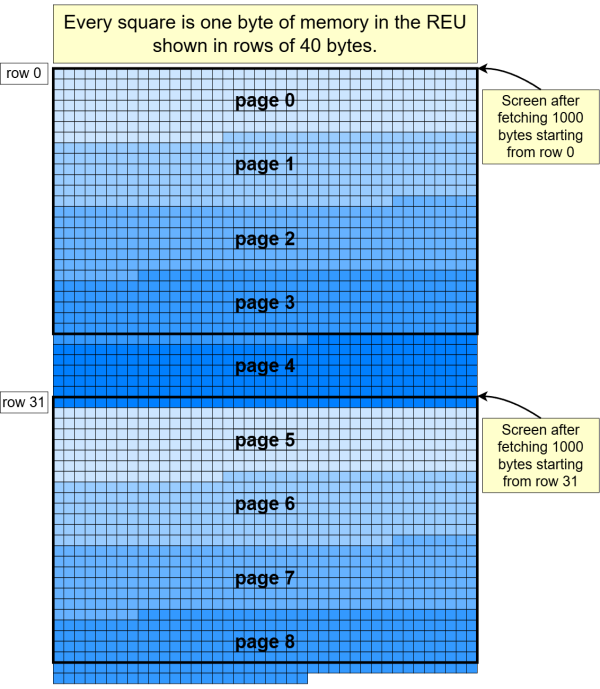
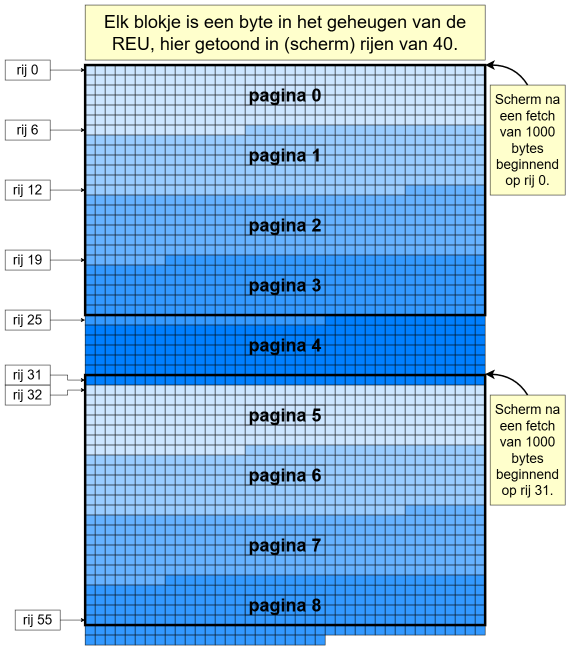
REU: added BASIC

diff --git a/reu/reu-nl.md b/reu/reu-nl.md
@@ -70,10 +70,11 @@ We slaan `command` even over en springen naar registers `c64base`, `reubase`,
 en `translen`. Het register `c64base` is het start adres van de kopieer actie 
 aan de C64 kant, het register `reubase` is het start adres van de kopieer actie 
 aan de REU kant, en `translen` is het aantal te kopiëren bytes. Merk op dat 
-`c64base` (en `translen`) de hele 64 kB van de 6510 omvat, terwijl het REU 
-geheugen maximaal 256 × 64 kB kan zijn.
+`c64base` (en `translen`) beide 2 bytes zijn en dus de hele 64 kB van de 6510 
+omvat, terwijl `reubase` zelfs 3 bytes is, zodat het REU geheugen maximaal 
+256 × 64 kB kan zijn (16777216 bytes of 16 Mbytes).
 
-  | Bits | Function     | Details                                                             |
+  | Bits | Function     | Details `command`                                                   |
   |:----:|:------------:|:--------------------------------------------------------------------|
   |   7  | EXECUTE      | 1 start een kopieer actie (van type TRANSFERTYPE)                   |
   |   6  |              |                                                                     |
@@ -86,11 +87,11 @@ Het `command` register bestuurt de kopieer actie. De onderste twee bits
 `TRANSFERTYPE` bepalen welk van de 4 kopieer acties wordt uitgevoerd. 
 Het `EXECUTE` bit (bit 7: 128) start de actie. Tijdens de kopieer actie zal 
 de REU de registers `c64base`, `reubase` stap voor stap ophogen en `translen` 
-aflagen. Als `LOAD` (bit 5: 32) hoog is zal de REU de start waardes herstellen 
+aflagen. Als `LOAD` (bit 5: 32) hoog is zal de REU de startwaardes herstellen 
 aan het einde van de kopie. De vlag `NOFF00` stelt je in staat de start nog 
 even uit te stellen; die begint pas na een schrijfactie naar $FF00. Dit is 
-nodig in een speciaal geval: als de REU de C64 RAM moet lezen of schrijven,
-die _onder_ het I/O 2 gebied ligt. 
+nodig in één speciaal geval: als de REU het C64 geheugen moet lezen of schrijven,
+dat _onder_ het I/O 2 gebied ligt. 
 
 Het `irqmask` register geeft de mogelijkheid een interrupt te genereren als 
 de kopieer actie klaar is. Zoals bij `status` vermeld _stallt_ de REU de 6510
@@ -109,8 +110,8 @@ voor alle registers.
 ## 10 PRINT met REU 
 
 Nu we weten hoe de REU werkt gaan we hem gebruiken in een BASIC programma.
-We gaan het klassieke 10 PRINT programma nabouwen omdat iedereen het kent 
-en omdat het goed past bij de mogelijheden van de REU.
+We gaan het klassieke 10 PRINT programma nabouwen. 10 PRINT omdat iedereen 
+het kent en omdat het goed past bij de mogelijkheden van de REU.
 
 
 ### 10 PRINT
@@ -123,8 +124,8 @@ Het klassieke 10 PRINT programma bestaat uit één regel:
   
 Het gebruikt de `RND(1)` functie om een willekeurig getal tussen 0 en 1 te 
 genereren. Hierdoor ligt `205.5+RND(1)` tussen 205.5 en 206.5. De `CHR$()` 
-functie kapt het argument af naar 205 of 206, waardoor een `\` of `/` wordt 
-afgedrukt. De GOTO 10 vormt een lus, wat leidt tot het afdrukken van 
+functie kapt het argument af naar 205 of 206, waardoor een `\` of `/` streep 
+wordt afgedrukt. De GOTO 10 vormt een lus, wat leidt tot het afdrukken van 
 oneindig veel schuine strepen, zodat er een doolhof patroon ontstaat.
 
 
@@ -139,37 +140,39 @@ Het idee is dat we veel schuine strepen van het 10 PRINT-programma opslaan
 in het REU-geheugen. We slaan ze op vanaf adres 0 ($000000) in de REU. 
 
 Voor de animatie halen we 1000 bytes op vanaf REU adres 0 en plaatsen deze 
-op C64 adres $0400 (het scherm). Daarna halen we 1000 bytes op uit REU adres 
+op C64 adres $0400 (het scherm). Daarna halen we 1000 bytes op vanaf REU adres 
 40 en plaatsen die opnieuw op $0400. Dit scrolt het scherm één rij omhoog. 
 Vervolgens halen we 1000 bytes op vanaf REU adres 80 en plaatsen die op $0400; 
 weer _scrollt_ het scherm een rij omhoog. En zo verder. 
 
 Dit gaat snel. Het is niet meer nodig om strepen te berekenen en ook de 
-kernel-scroll is niet meer nodig. Elke kopie duurt slechts 1 ms 
-(we hebben nog wel een paar BASIC-commando's nodig om de kopie te starten).
+_kernel-scroll_ routine hoeft niet meer aangeroepen te worden. 
+Elke kopie duurt slechts 1 ms (we hebben nog wel een paar BASIC `POKE` 
+opdrachten nodig om de kopie te starten).
 
 
 ### REU geheugen indeling
 
 Er zijn twee problemen met de hierboven geschetste REU versie van 10 PRINT.
 
-Het eerste probleem is dat elke schuine streep, eerst in de REU moet staan; 
-we moeten deze dus toch berekenen. 
-Om dit op te lossen, spelen we een beetje vals. We genereren slechts 256 
-schuine strepen en slaan meerder kopieën achtereenvolgens op in de REU. 
+Het eerste probleem is dat elke schuine streep, in de REU moet staan; 
+we moeten ze dus toch allemaal berekenen. Om dit op te lossen, spelen we 
+een beetje vals. We genereren slechts 256 schuine strepen en slaan meerder 
+kopieën van dit setje achtereenvolgens op in het REU geheugen. 
 Als je goed kijkt kun je dat zien, maar 256 schuine strepen is 6 scherm 
 rijen (van 40) plus nog 16 tekens. Hierdoor is de tweede reeks van 256 
 schuine strepen met 16 tekens verschoven. Dit maakt het lastiger om het 
 herhalende patroon te zien. Goed genoeg voor onze eenvoudige demo. 
 Vanaf nu noemen we een reeks van 256 schuine strepen één pagina.
 
-Het tweede probleem is dat we, net als in het originele 10 PRINT programma, 
-willen dat onze versie oneindig door loopt. Het is duidelijk dat we geen 
-oneindige hoeveelheid (identieke) pagina's van 256 schuine strepen kunnen hebben.
-Hier schiet de wiskunde ons te hulp. Het kleinste gemene veelvoud van de 
-rijgrootte 40 en de paginagrootte 256 is 1280. We kunnen precies 5 pagina's 
-(van 256 tekens) kwijt in 1280, én we kunnen precies 32 rijen (van 40 tekens) 
-kwijt in 1280. Als de REU gevuld is met voldoende pagina's en we beginnen 
+Het tweede probleem is dat we willen dat de animatie oneindig door loopt, 
+net als in het originele 10 PRINT programma. Het is duidelijk dat we geen 
+oneindige hoeveelheid (identieke) pagina's van 256 schuine strepen in 
+het REU geheugen kunnen hebben. Hier schiet de wiskunde ons te hulp. 
+Het kleinste gemene veelvoud van de rijgrootte 40 en de paginagrootte 256 
+is 1280. We kunnen precies 5 pagina's (van 256 tekens) kwijt in 1280 bytes, 
+én we kunnen precies 32 rijen (van 40 tekens) kwijt in 1280 bytes. 
+Als de REU gevuld is met voldoende pagina's en we beginnen 
 met het ophalen van (1000 bytes vanaf) rij 0 (adres 0), vervolgens 1000 vanaf 
 rij 1 (adres 40), ..., en op een gegeven moment 1000 bytes vanaf rij 32 
 (adres 1280), dan bereiken we een cyclus: de bytes (vanaf) rij 32 zijn gelijk 
@@ -177,14 +180,246 @@ aan die op rij 0. Dus na het ophalen van het scherm vanaf rij 31, halen we het
 volgende scherm niet op vanaf rij 32, maar springen we terug en halen we het 
 scherm weer op vanaf rij 0. Dat is immers identiek aan dat op rij 32.
 
-We moeten ons realiseren dat we een scherm van 1000 bytes ophalen, waarvan 
-de laatste begint op rij 31. Daarom moeten er vanaf rij 31 nog minimaal 1000 
-schuine strepen in de REU staan. Zoals de het geheugen plaatje hieronder 
-laat zien, hebben we 9 pagina's in de REU nodig om genoeg schuine strepen 
-te hebben om helemaal naar rij 31 te scrollen. Wij denken dat dit genoeg 
-variatie biedt voor onze demo.
+Het laatste scherm dat we ophalen begint op rij 31 en is 1000 bytes groot.
+Zoals de het geheugen plaatje hieronder laat zien, hebben we dus 9 pagina's 
+in de REU nodig om genoeg schuine strepen te hebben om helemaal naar rij 31 
+te scrollen. Wij denken dat dit genoeg variatie biedt voor onze demo.
 
-![REU geheugen](memorysmall.png)
+![REU geheugen](memory-nl.png)
+
+
+### Het BASIC programma
+
+We bespreken nu het BASIC programma `10PRINT-WITH-REU`. We gebruiken de
+`petcat` conventie om speciale symbolen als "wissel naar light blauw" 
+af te drukken als `{lblu}`. Ook hakken we bij de bespreking het programma 
+op in blokken, maar alle blokken achter elkaar vormen het uitvoerbare 
+programma.
+
+
+### Kleuren
+
+```basic
+100 r=57088:rem 10print-with-reu
+110 poke 53280,14:poke 53281,6
+120 print "{clr}{lblu}";tab(54);"please wait"
+```
+
+Het eerste blok regelt de kleur. 
+Regel 100 is de uitzondering; deze definieert variabele `R` als het 
+basisadres van de REU en het bevat de naam van het programma.
+
+Zoals uitgelegd gebruiken we het _fetch_ commando van de REU om 1000 (schuine) 
+strepen te kopiëren uit het REU-geheugen naar het schermgeheugen van de C64 
+(op adres $0400 of 1024). Om de strepen zichtbaar te maken, moet ook het 
+_kleurengeheugen_ (op adres$D800 of 55296) worden ingesteld. 
+Welke kleur zullen we gebruiken? De ontwerpkeuze is dat we de C64 standaard 
+kleuren gebruiken.
+
+Regel 110 stelt de rand (53280) in op lichtblauw (kleur 14) en de 
+achtergrond van het scherm (53281) op donkerblauw (kleur 6).
+Tot slot stelt regel 120 de cursor of voorgrond kleur in op lichtblauw 
+({lblu} kleur 14) en drukt `PLEASE  WAIT` af.
+Hiermee zijn alle standaardkleuren ingesteld.
+
+
+### Schuine strepen
+
+```basic
+200 print "{blu}";
+210 print chr$(206);
+220 for i=0 to 254
+230 :print chr$(205.5+rnd(1));
+240 next
+250 print "{lblu}"
+```
+
+het tweede blok drukt de 256 (schuine) strepen af op de bekende 10 PRINT
+manier. We willen echter niet dat de gebruiker ze (nu al) ziet. 
+Daarom schakelt regel 200 de cursor kleur om naar donkerblauw (6, {blu})
+dezelfde als de achtergrond. Regel 250 schakelt weer terug naar lichtblauw 
+(14, {lblu}).
+
+Eén ding is bijzonder: het allereerste teken van de 256 wordt door regel 210 
+geforceerd ingesteld op 206 (`/`). Toevallig is 206 AND 15 gelijk aan 14. 
+We hergebruiken later het eerste teken van de pagina om de REU het 
+kleurengeheugen te laten vullen (via _fill_) met 1000 bytes met de waarde 206 
+(zie regels 500-550 verderop). 
+
+Omdat het kleurengeheugen alleen de onderste 4 bits van 206 opslaat, 
+krijgt het kleurengeheugen 1000 keer de waarde 14, wat lichtblauw is, 
+onze gekozen cursor kleur.
+
+
+### Pagina's _stashen_
+
+```basic
+300 poke r+2,80:poke r+3,4
+310 poke r+4, 0:poke r+5,0:poke r+6,0
+320 poke r+7, 0:poke r+8,1
+330 poke r+9,0
+340 poke r+10,0
+350 for i=0 to 8
+360 :poke r+5,i
+370 :poke r+1,128+32+16+0
+380 next
+```
+
+Dit blok slaat de pagina van 256 bytes aan schuine strepen) 9 keer 
+op in het REU-geheugen.
+
+We configureren de REU via de registers.
+
+- Regel 300 stelt de MSB van `c64base` in op 4 (het schermgeheugen begint op $0400). 
+  De LSB wordt ingesteld op 80 omdat vanwege de `PRINT TAB(54);"PLEASE WAIT"`, 
+  de (schuine) strepen beginnen op de derde rij, oftewel met een offset van 80.
+  
+- Regel 310 stelt `reubase` in op $000000.
+  Maar in de `FOR-NEXT` lus (regel 360) wordt de middelste byte overschreven 
+  met het paginanummer in de REU.
+  
+- Regel 320 stelt de `translen` in op $0100, wat precies 1 pagina (256 bytes) is.
+
+- We willen geen interrupts (regel 330) en zetten dus `irqmask` op 0.
+
+- We willen wél dat de adressen automatisch ophogen (regel 340) en 
+  zetten `addrctrl` dus op 0.
+
+- De lus heeft 9 iteraties (regel 350), waarbij 9 keer een pagina wordt opgeslagen.
+  Regel 360 selecteert de bestemmingspagina in de REU, en regel 370 is de 
+  daadwerkelijke _stash_ opdracht; we zetten deze bits
+  128 (EXECUTE) + 32 (LOAD) + 16 (NOFF00) + 0 (STASH).
+
+
+### REU aanwezig?
+
+```basic
+400 if (peek(r) and 64) = 64 then 420
+410 print "error:reu expected":end
+420 if (peek(r) and 64) <> 0 then 410
+```
+
+Het doel van dit blokje is om te controleren of er een REU actief is in de C64.
+
+Na de _stashes_ van het vorige blok moet de vlag `STATUS.ENDOFBLOCK` in 
+het `status` register hoog zijn. Dit wordt gecontroleerd in regel 400. 
+Als dat niet zo was, drukt regel 410 een foutmelding af en stopt het programma.
+
+Als de vlag wél ingesteld was, moet deze nu gewist zijn, aangezien 
+`STATUS.ENDOFBLOCK` gewist wordt bij het lezen (_clear on read_). 
+Is dat niet het geval, dan volgt er een sprong terug naar regel 410 
+om een foutmelding af te drukken en te stoppen.
+
+
+### Kleurgeheugen _fill_
+
+
+```basic
+500 poke r+2,0:poke r+3,216
+510 poke r+4,0:poke r+5,0:poke r+6,0
+520 poke r+7,0:poke r+8,4
+530 poke r+9,0
+540 poke r+10,64
+550 poke r+1,128+32+16+1
+```
+
+De laatste voorbereidingsstap voordat de animatie begint, is het vullen van 
+het kleurengeheugen van de C64. Dit is een _fetch_ (geen _stash_), maar dan 
+zonder het ophogen van _reubase_, waardoor de _fetch_ als een _fill_ werkt.
+
+We bespreken weer hoe alle REU-registers (opnieuw) beschreven worden. 
+
+- Regel 500 stelt `c64base` in op 216 (MSB) en 0 (LSB), oftewel $D800 of 55296, 
+  het kleurengeheugen. 
+  
+- De `reubase` wordt $000000 (regel 510) , de locatie waar regel 200 de 
+  waarde 206 ($CE) heeft neergezet. De onderste _nibble_ is dus $E 
+  (14, oftewel lichtblauw). 
+
+- In regel 520 zijn we lui en stellen `translen` in op 4 pagina's (1024 bytes), 
+  waar 1000 voldoende zou zijn.
+
+- Wederom willen we geen interrupts (regel 530).
+
+- De `addrctrl` is bijzonder: we willen wel het ophogen voor `c64base`, 
+  maar we willen een vast adres voor `reubase` (regel 540). 
+  Dit is een _fill_ configuratie. 
+  
+- Regel 550 voert de daadwerkelijke _fetch_ uit met deze bits:
+  128 (EXECUTE) + 32 (LOAD) + 16 (NOFF00) + 1 (FETCH).
+
+
+### De animatie
+
+```basic
+600 poke r+2,0:poke r+3,4
+610 poke r+4,0:poke r+5,0:poke r+6,0
+620 poke r+7,0:poke r+8,4
+630 poke r+9,0
+640 poke r+10,0
+650 for i=0 to 31
+660 :a=i*40:ah=int(a/256):al=a and 255
+670 :poke r+4,al:poke r+5,ah
+680 :poke r+1,128+32+16+1
+690 next:goto 650
+```
+
+Dit laatste blok zorgt voor de animatie.
+
+Alle REU-registers worden (nogmaals) beschreven.
+
+- Regel 600 stelt `c64base` in op 4 (MSB) en 0 (LSB), 
+  oftewel $0400 of 1024, het schermgeheugen.
+
+- Regel 610 stelt `reubase` in op $000000, maar de lus overschrijft de twee 
+  onderste bytes (regel 670) met het rij adres in de REU.
+
+- In regel 620 zijn we opnieuw lui en stellen we `translen` in op 4 pagina's.
+
+- Wederom willen we geen interrupts (regel 630) en willen we wel weer dat 
+  de adressen automatisch ophogen (regel 640).
+
+- Regel 650 laat `I` over de 32 rijen itereren die zich in het REU-geheugen bevinden.
+
+- Regel 660 berekent eerst het adres `A` van rij `I` in de REU, en splits `A` 
+  vervolgens op in een hoge byte (`AH`) en een lage byte (`AL`).
+  In regel 670 worden deze gebruikt om de `reubase` in te stellen.
+
+- Regel 680 voert de daadwerkelijke _fetch_ uit met deze bits:
+  128 (EXECUTE) + 32 (LOAD) + 16 (NOFF00) + 1 (FETCH).
+
+- Regel 690 zorgt ervoor dat we, na het kopiëren van het 
+  "scherm beginnend bij rij 31", weer teruggaan naar het 
+  "scherm beginnend bij rij 0". 
+  Dit wordt bereikt door de GOTO 650 na de NEXT.
+
+
+### Details van het BASIC programma
+
+De animatielus haalt één compleet scherm op, rij voor rij. 
+Dit geeft de indruk van scrollen, zonder gebruik te maken van de 
+scrollfunctie van de kernel. Het resultaat is dat er, 
+in tegenstelling tot de originele 10 PRINT, nooit twee lege rijen zijn, 
+ook nooit één lege rij, en dat er zelfs geen lege schermpositie is in 
+kolom 80 op rij 25.
+
+Ik heb `T0=TI` toegevoegd vóór de `FOR`-lus op regel 650, en `T1=TI` ná `NEXT` 
+(regel 690). Het afdrukken van `T1-T0` laat zien dat het ophalen van 32 
+rijen 88 _jiffies_ kost, ofwel dat het 1,5 seconde duurt. 
+Dat is 45 ms per fetch/scroll.
+
+De animatie is veel te snel. Ik wilde hem vertragen door een `WAIT 53265,128` 
+in te voegen voor de rasterstraal van de VIC-II. Dat werkte niet. 
+Ik gebruik nu een eenvoudige wachtlus `685 FOR T=0 TO 222:NEXT` als ik een 
+tragere _scroll_ wil.
+
+
+## Conclusie
+
+In eerste instantie leek de REU een ingewikkelde uitbreding.
+Na enige bestudering bleek hij eenvoudig meer slim in elkaar te zitten.
+Zelfs het gebruik in BASIC is redelijk eenvoudig.
+En hij is snel.
 
 
 (end)
